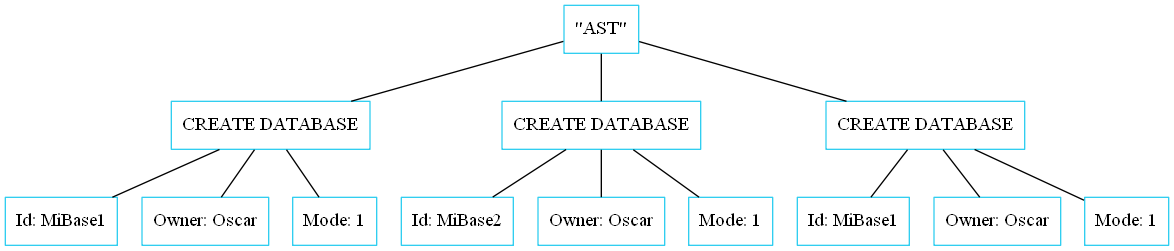
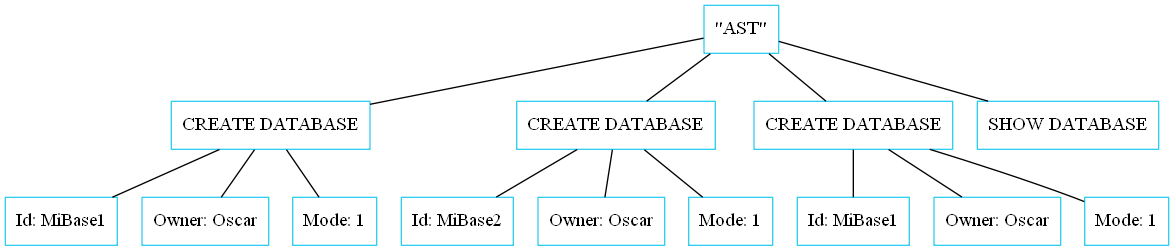
Ejecucion CreateTable

diff --git a/ts.py b/ts.py
@@ -28,15 +28,14 @@ class Funcion():
         self.parametros=parametros
         self.referencia=referencia
 
-class TablaDeSimbolos() :
+class TablaDeSimbolos():
     
-    def __init__(self, simbolos = {},funciones={}, createDataBase={}) :
+    def __init__(self, simbolos = {},funciones={}, BasesDatos={}):
         self.simbolos = simbolos.copy()
         self.funciones = funciones.copy()
-        self.createDataBase = createDataBase.copy()
+        self.BasesDatos = BasesDatos.copy()
 
-    def agregar(self, simbolo) :
-
+    def agregar(self, simbolo):
         self.simbolos[simbolo.id] = simbolo
     
     def agregarFuncion(self,funcion):
@@ -70,7 +69,7 @@ class TablaDeSimbolos() :
         else :
             self.funciones[id].parametros = params 
 
-    def obtener(self, id,rep=0) :
+    def obtener(self, id,rep=0):
         if not id in self.simbolos :
             #print('Error: variable ', id, ' no definida.')
             return None
@@ -82,7 +81,7 @@ class TablaDeSimbolos() :
                 return self.simbolos[id]
         return self.simbolos[id]
 
-    def actualizar(self, id,tipo, valor, dimension=[]) :
+    def actualizar(self, id,tipo, valor, dimension=[]):
         if not id in self.simbolos :
             print('Error: variable ',id, ' no definida.')
         else :
@@ -97,14 +96,17 @@ class TablaDeSimbolos() :
         else:
             del self.simbolos[id]
 
-    def agregarCreateDataBase(self, BD:CreateDataBase):
-        self.createDataBase[BD.idBase] = BD
+    '''def agregarCreateDataBase(self, BD:CreateDataBase):
+        self.createDataBase[BD.idBase] = BD'''
 
-    def obtenerCreateDateBase(self, id):
-        if not id in self.createDataBase:
+    def agregarBasesDatos(self, miBase):
+        self.BasesDatos[miBase.idBase] = miBase
+
+    def obtenerBasesDatos(self, id):
+        if not id in self.BasesDatos:
+            # print('Error: funcion ',id,' no definida.')
             return None
-        return self.createDataBase[id]
-
+        return self.BasesDatos[id]
 
     '''def actualizarCreateDataBase(self, id, tipo):
         if not id in self:

diff --git a/Instruccion.py b/Instruccion.py
@@ -1,5 +1,12 @@
-class Instruccion:
-    'Es una clase abstracta'
+import ts as TS
+import jsonMode as Master
+ts_global = TS.TablaDeSimbolos()
+
+class Instruccion():
+    'Abstracta'
+
+    def Ejecutar(self):
+        pass
 
 # Un drop table esta compuesto por el ID de la tabla que eliminara.
 class DropTable(Instruccion):
@@ -235,12 +242,34 @@ class CreateDataBase(Instruccion):
         self.idBase = idBase
         self.idOwner = idOwner
         self.Modo = Modo
-        
+
+    def Ejecutar(self):
+        global ts_global
+
+        r = ts_global.obtenerBasesDatos(self.idBase)
+        if r is None:
+            print(" No encontro la BD. ")
+            rM = Master.createDatabase(str(self.idBase))
+            if rM == 0:
+                ts_global.agregarBasesDatos(self)
+                print(" > Base de datos creada con exito!")
+            elif rM == 1 or rM == 2:
+                print("> Base de datos ya existe.")
+        else:
+            print("Si encontre la BD. ")
+
+
 
 class ShowDatabases(Instruccion):
     def __init__(self, cadenaLike):
         self.cadenaLike = cadenaLike
         print("Se creo")
+
+
+    def Ejecutar(self):
+        lista = Master.showDatabases()
+        for i in lista:
+            print(str(i))
 
 class AlterDataBase(Instruccion):
     def __init__(self, idDB, opcion):

diff --git a/interprete.py b/interprete.py
@@ -285,14 +285,16 @@ class interprete2:
         self.recorrerInstrucciones(self.sentencias)
 
     def recorrerInstrucciones(self, sente):
+        global ts_global
         for i in sente:
             if isinstance(i, CreateDataBase):
-                print("Crear base de datos")
-                self.i_CreateDataBase(i)
-                print()
+                i.Ejecutar()
+            elif isinstance(i, ShowDatabases):
+                i.Ejecutar()
             else:
                 print("NO ejecuta")
 
+'''
     def i_CreateDataBase(self, DataBase: CreateDataBase):
         global ts_global
         r = ts_global.obtenerCreateDateBase(DataBase.idBase)
@@ -303,10 +305,9 @@ class interprete2:
                 print("> Base de datos creada con exito!")
             elif rM == 1 or rM == 2:
                 print("> Base de datos con conflicto.")
-            ts_global.agregarCreateDataBase(DataBase)
         else:
             print("Si encontre la base de datos.")
             for i in ts_global.createDataBase:
                 x:CreateDataBase = ts_global.obtenerCreateDateBase(i)
-                print(x.Modo)
+                print(x.Modo)'''
 
